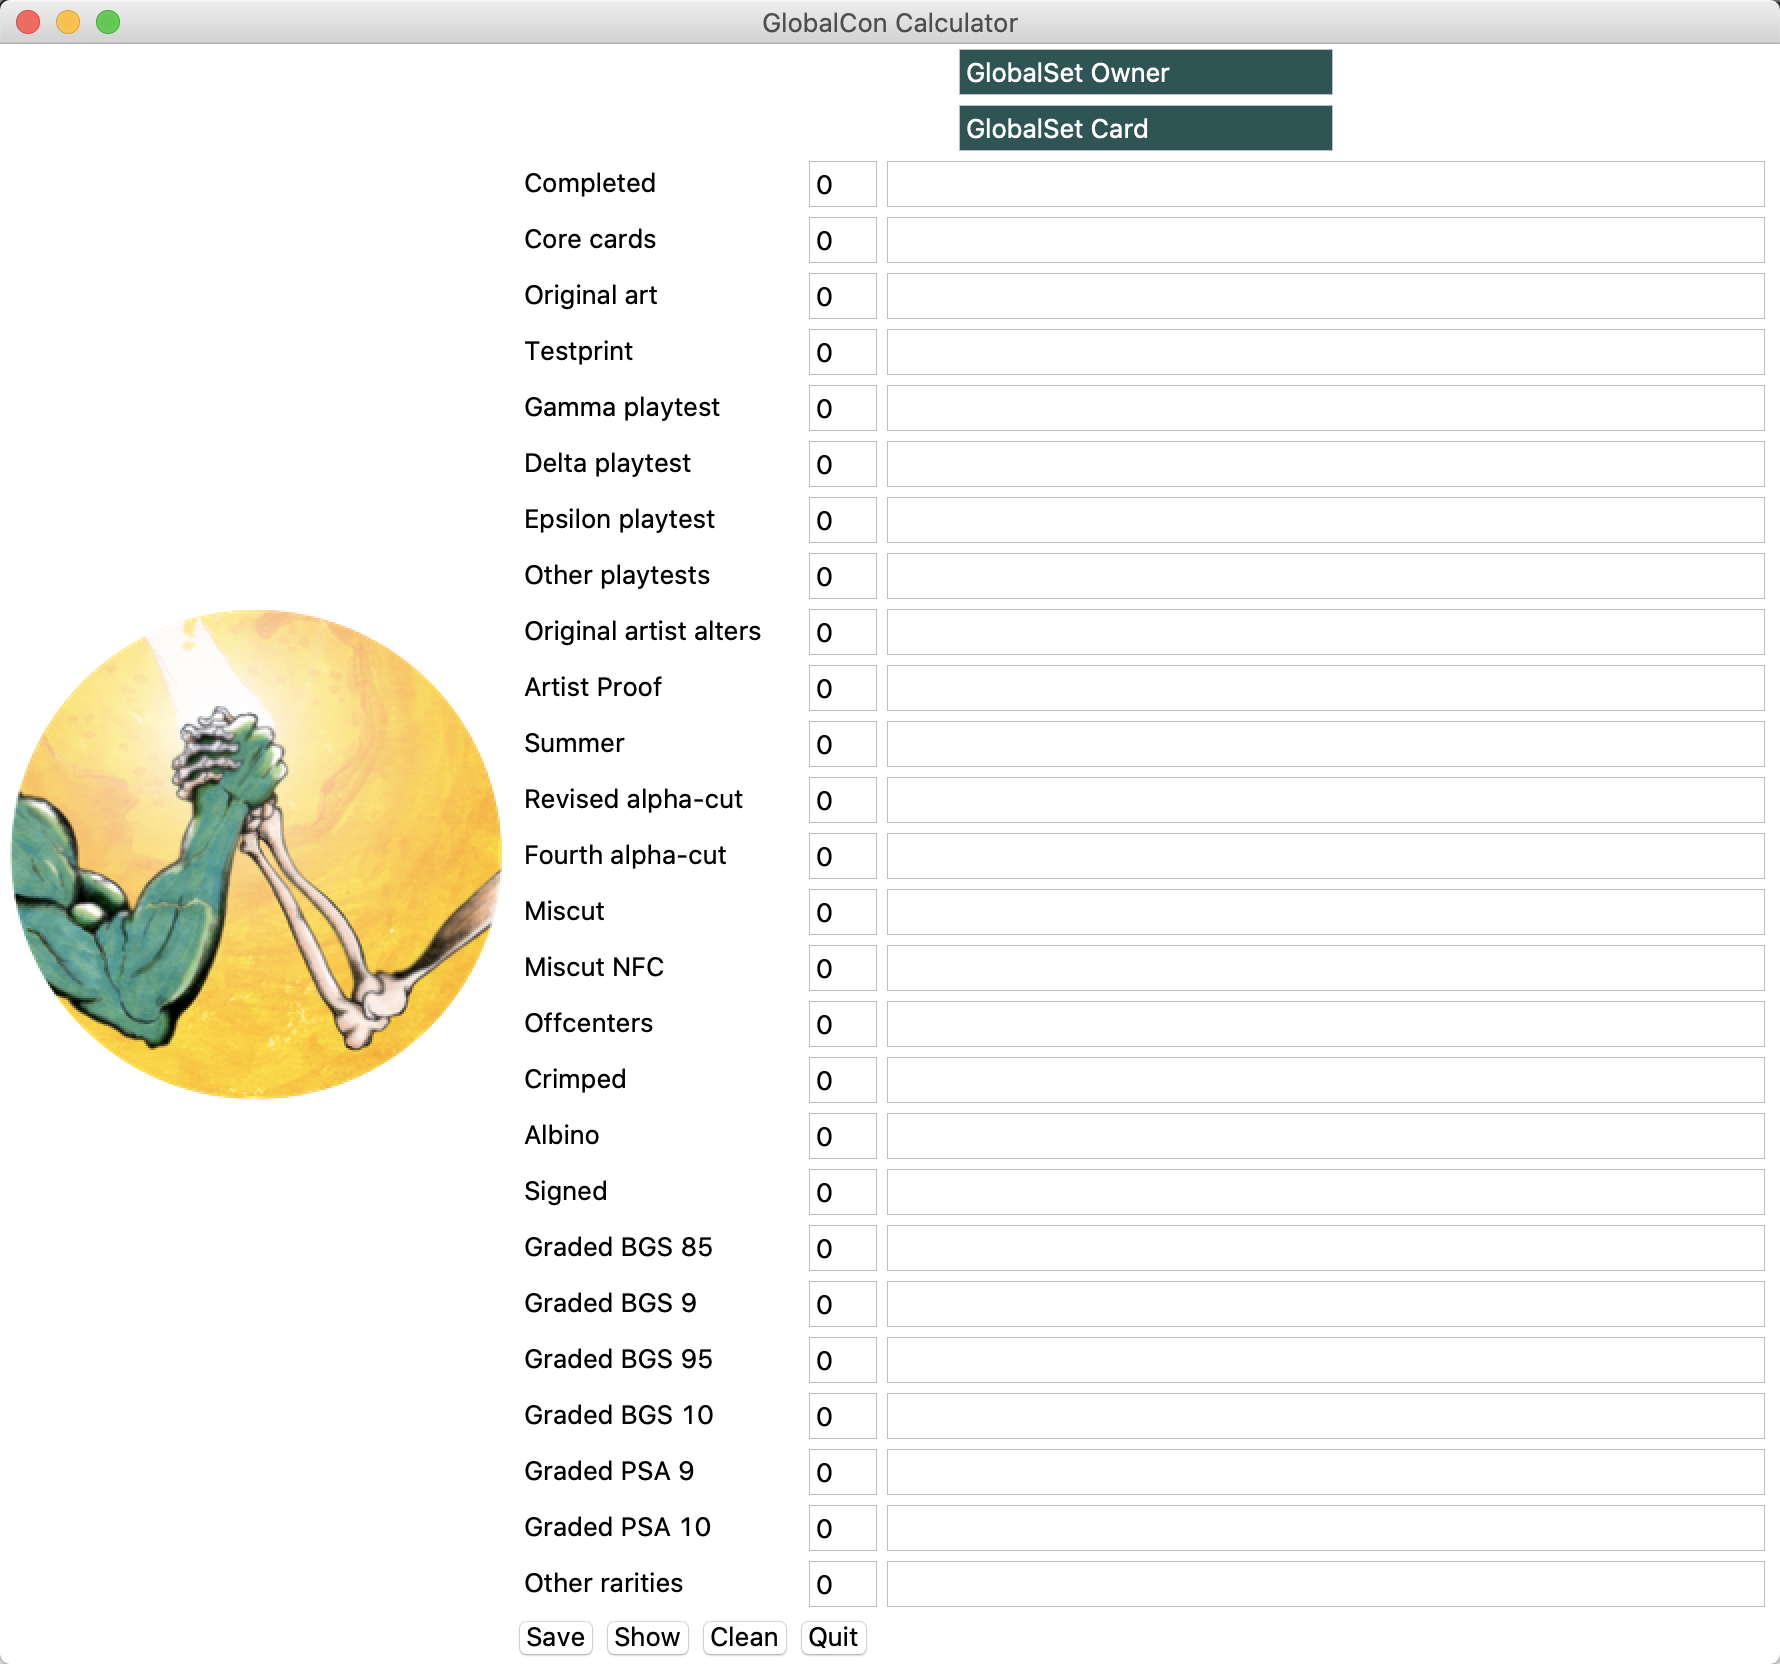
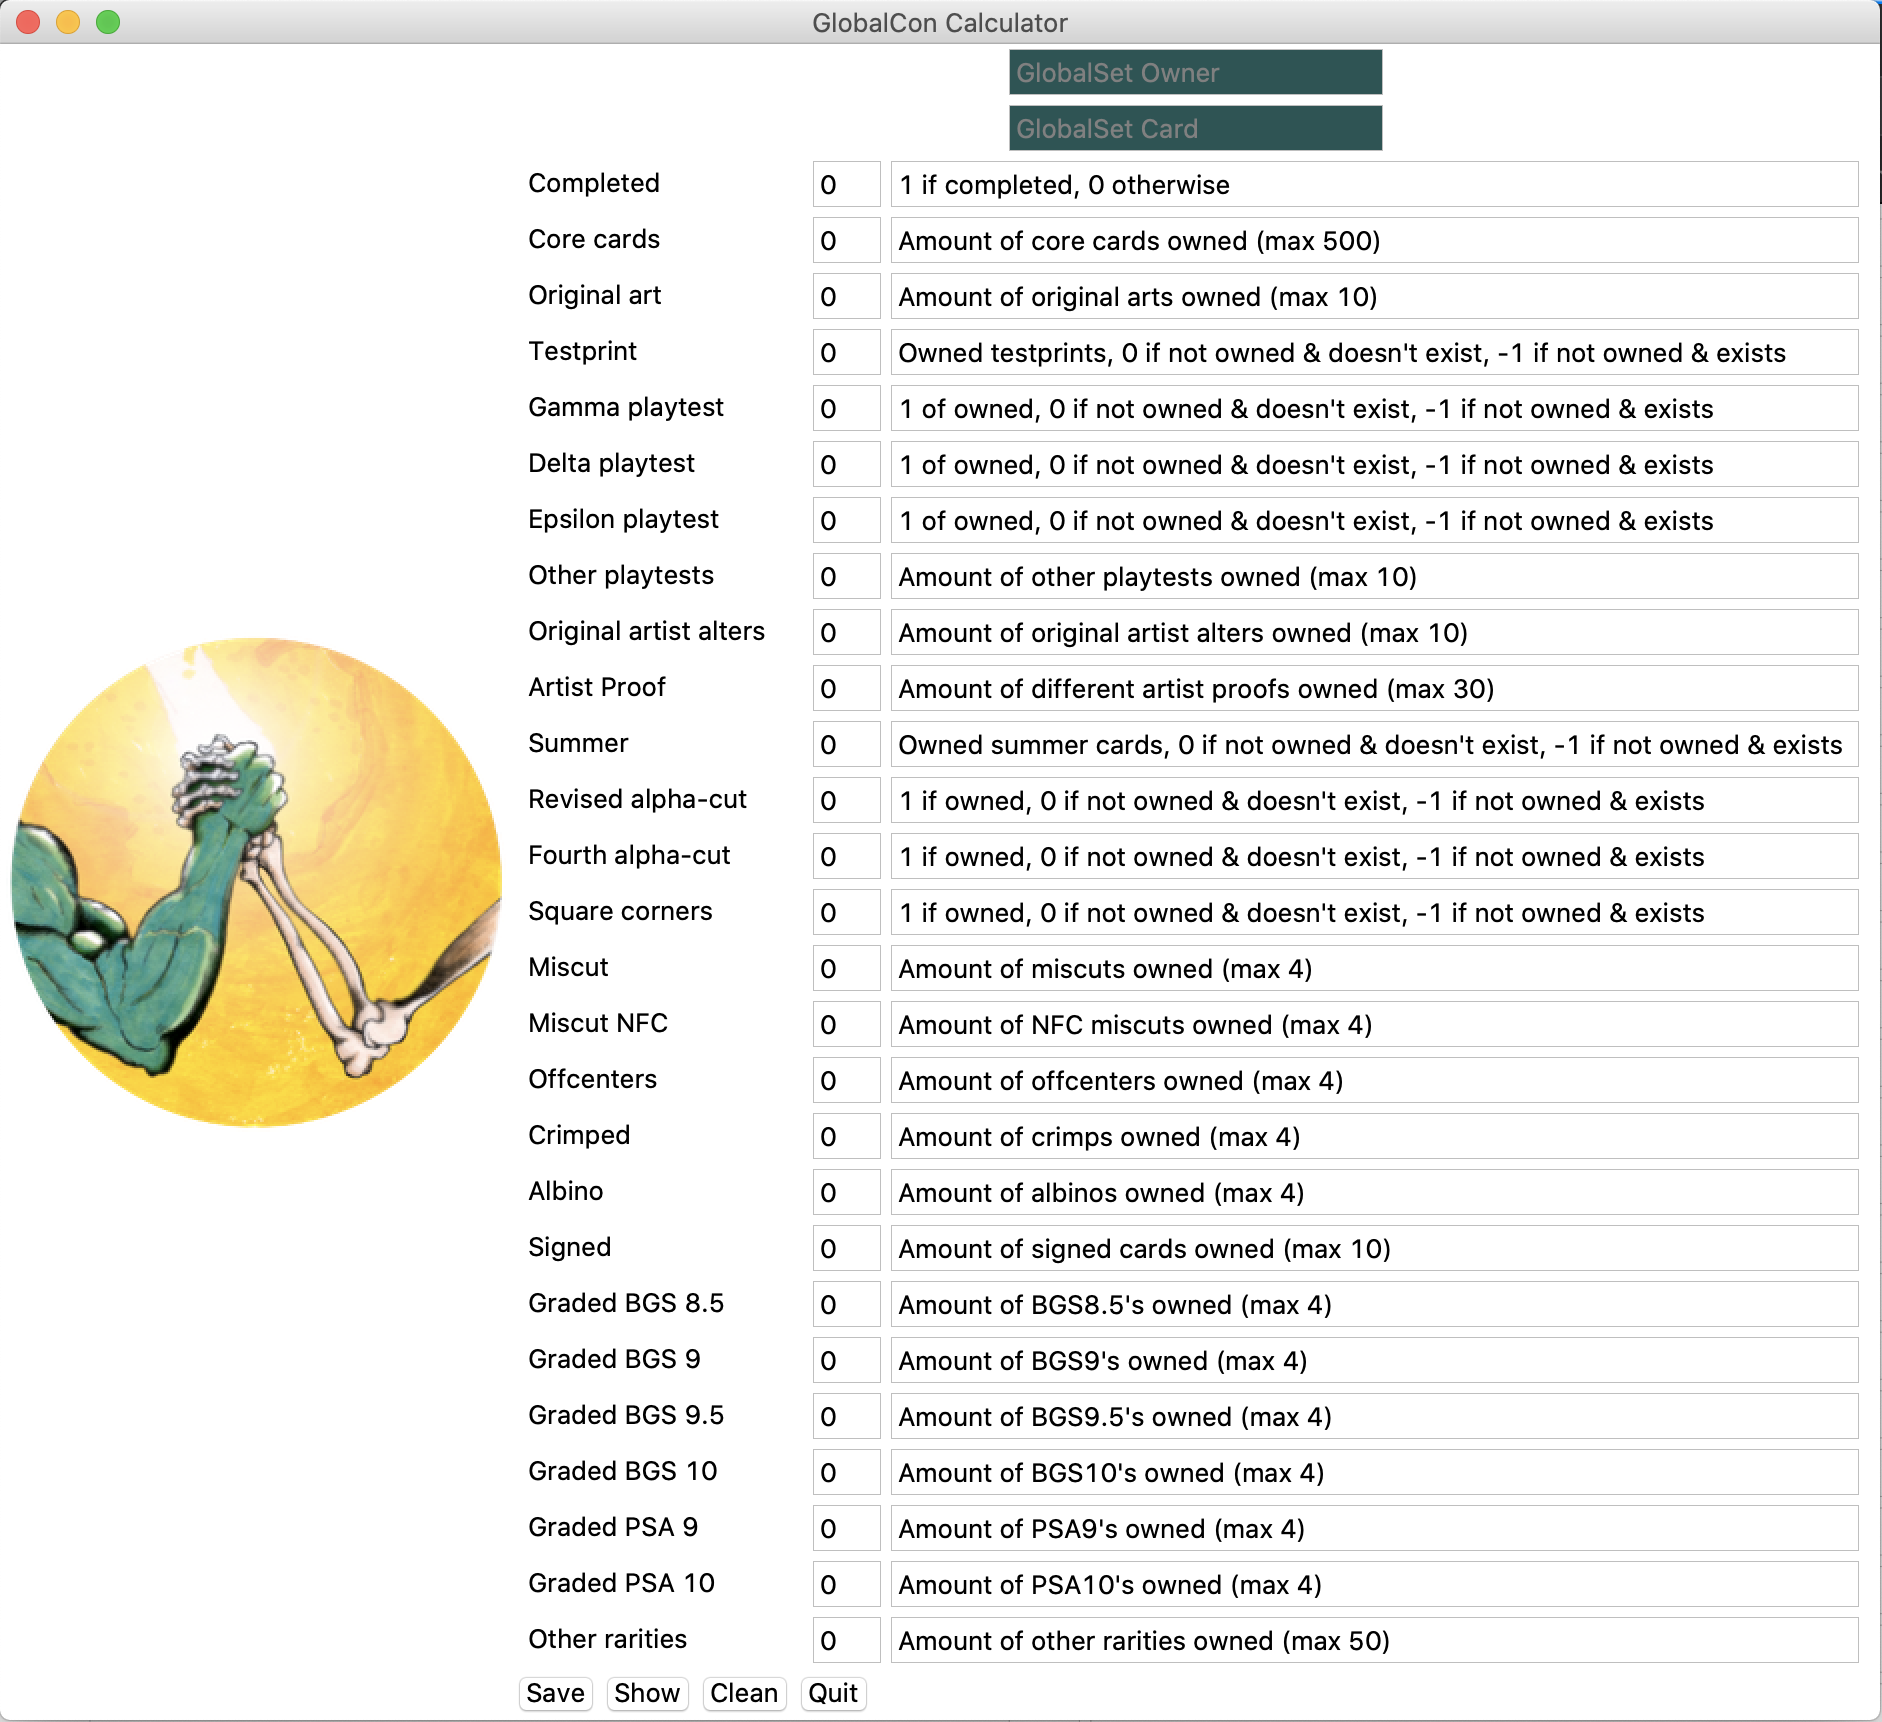
Center diploma text and update examples

diff --git a/create_diplomas.py b/create_diplomas.py
@@ -1,10 +1,9 @@
-import fpdf
 from fpdf import FPDF
 import glob
 import os
 import re
 
-CENTER_X = 146
+CENTER_X = 153
 CENTER_Y = 102.5
 
 DIPLOMAS_PATH = "DATA/DIPLOMAS"
@@ -13,7 +12,7 @@ DIPLOMAS_PATH = "DATA/DIPLOMAS"
 class PDF(FPDF):
     def __init__(self):
         super().__init__()
-        self.add_page(orientation='L')
+        self.add_page(orientation="L")
         self.set_draw_color(0, 80, 180)
         self.set_text_color(50, 50, 50)
         self.add_background()
@@ -28,89 +27,80 @@ class PDF(FPDF):
 
     def titles(self):
         self.set_xy(CENTER_X, CENTER_Y)
-        self.add_font('moria citadel', '', 'MoriaCitadel.TTF', uni=True)
-        self.set_font('moria citadel', '', size=46)
-        self.cell(w=-8.0, h=-150.0, align='C', txt="GlobalCon 2020", border=0)
+        self.add_font("moria citadel", "", "MoriaCitadel.TTF", uni=True)
+        self.set_font("moria citadel", "", size=46)
+        self.cell(w=-8.0, h=-150.0, align="C", txt="GlobalCon 2020", border=0)
 
     def organizers(self):
         self.set_xy(CENTER_X, CENTER_Y)
-        self.set_font('moria citadel', '', size=20)
+        self.set_font("moria citadel", "", size=20)
         self.set_text_color(50, 50, 50)
-        self.cell(w=155.0, h=87.0, align='C', txt="The Organizers", border=0)
+        self.cell(w=155.0, h=87.0, align="C", txt="The Organizers", border=0)
 
     def add_name(self, competitor_to_add):
         self.set_xy(CENTER_X, CENTER_Y)
-        self.set_font('moria citadel', '', size=26)
+        self.set_font("moria citadel", "", size=26)
         self.set_text_color(50, 50, 50)
-        self.cell(w=-8.0, h=-108.0, align='C', txt="Competitor name", border=0)
+        self.cell(w=-8.0, h=-108.0, align="C", txt="Competitor name", border=0)
 
         self.set_xy(CENTER_X, CENTER_Y)
-        self.set_font(family='Arial', style='B', size=32)
+        self.set_font(family="Arial", style="B", size=32)
         self.set_text_color(50, 50, 50)
-        self.cell(w=-8.0, h=-86.0, align='C', txt=competitor_to_add, border=0)
+        self.cell(w=-8.0, h=-86.0, align="C", txt=competitor_to_add, border=0)
 
     def add_card(self, card_name):
         self.set_xy(CENTER_X, CENTER_Y)
-        self.set_font('moria citadel', '', size=26)
+        self.set_font("moria citadel", "", size=26)
         self.set_text_color(50, 50, 50)
-        self.cell(w=-8.0, h=-51.0, align='C', txt="Competitor card", border=0)
+        self.cell(w=-8.0, h=-51.0, align="C", txt="Competitor card", border=0)
 
         self.set_xy(CENTER_X, CENTER_Y)
-        self.set_font(family='Arial', style='B', size=32)
+        self.set_font(family="Arial", style="B", size=32)
         self.set_text_color(50, 50, 50)
-        self.cell(w=-8.0, h=-29.0, align='C', txt=card_name, border=0)
+        self.cell(w=-8.0, h=-29.0, align="C", txt=card_name, border=0)
 
     def add_position(self, position, total):
         self.set_xy(CENTER_X, CENTER_Y)
-        self.set_font('moria citadel', '', size=26)
+        self.set_font("moria citadel", "", size=26)
         self.set_text_color(50, 50, 50)
-        self.cell(w=-8.0, h=6.0, align='C', txt="Position", border=0)
+        self.cell(w=-8.0, h=6.0, align="C", txt="Position", border=0)
 
         self.set_xy(CENTER_X, CENTER_Y)
-        self.set_font(family='Arial', style='B', size=32)
+        self.set_font(family="Arial", style="B", size=32)
         self.set_text_color(50, 50, 50)
-        self.cell(w=-8.0, h=28.0, align='C', txt=f'{position} / {total}', border=0)
+        self.cell(w=-8.0, h=28.0, align="C", txt=f"{position} / {total}", border=0)
 
     def add_points(self, points):
         self.set_xy(CENTER_X, CENTER_Y)
-        self.set_font('moria citadel', '', size=26)
+        self.set_font("moria citadel", "", size=26)
         self.set_text_color(50, 50, 50)
-        self.cell(w=-8.0, h=63.0, align='C', txt="Points", border=0)
+        self.cell(w=-8.0, h=63.0, align="C", txt="Points", border=0)
 
         self.set_xy(CENTER_X, CENTER_Y)
-        self.set_font(family='Arial', style='B', size=32)
+        self.set_font(family="Arial", style="B", size=32)
         self.set_text_color(50, 50, 50)
-        self.cell(w=-8.0, h=85.0, align='C', txt=f'{points}', border=0)
+        self.cell(w=-8.0, h=85.0, align="C", txt=f"{points}", border=0)
 
     def add_background(self):
         self.set_xy(0.0, 0.0)
         self.image(
-            "documentation/Background.png",
-            link='',
-            type='',
-            w=297,
-            h=210,
-            x=0,
-            y=0
+            "documentation/Background.png", link="", type="", w=297, h=210, x=0, y=0
         )
 
     def add_logo(self):
         self.set_xy(30.0, 115.0)
-        self.image(
-            "documentation/GlobalCon_border.png",
-            link='',
-            type='',
-            w=70,
-            h=70
-        )
+        self.image("documentation/GlobalCon_border.png", link="", type="", w=70, h=70)
 
 
-competitors = [f for f in os.listdir("DATA/RESULTS")
-               if os.path.isfile(os.path.join("DATA/RESULTS", f))]
-competitors.sort(key=lambda x: int(x.split('_')[0]), reverse=True)
+competitors = [
+    f
+    for f in os.listdir("DATA/RESULTS")
+    if os.path.isfile(os.path.join("DATA/RESULTS", f))
+]
+competitors.sort(key=lambda x: int(x.split("_")[0]), reverse=True)
 
 if os.path.exists(f"{DIPLOMAS_PATH}"):
-    files = glob.glob(f'{DIPLOMAS_PATH}/*.pdf')
+    files = glob.glob(f"{DIPLOMAS_PATH}/*.pdf")
     for f in files:
         os.remove(f)
 
@@ -121,10 +111,10 @@ total_competitors = len(competitors)
 previous_points = 10000
 previous_position = 1
 for ind, competitor in enumerate(competitors, 1):
-    competitor_data = competitor[:-4].split('_')
+    competitor_data = competitor[:-4].split("_")
     competitor_points = competitor_data[0]
-    competitor_name = ' '.join(re.findall('[A-Z][^A-Z]*', competitor_data[1]))
-    competitor_card = ' '.join(re.findall('[A-Z][^A-Z]*', competitor_data[2]))
+    competitor_name = " ".join(re.findall("[A-Z][^A-Z]*", competitor_data[1]))
+    competitor_card = " ".join(re.findall("[A-Z][^A-Z]*", competitor_data[2]))
 
     pdf = PDF()
     pdf.add_name(competitor_name)
@@ -140,8 +130,9 @@ for ind, competitor in enumerate(competitors, 1):
     pdf.add_logo()
 
     pdf.output(
-        f'{DIPLOMAS_PATH}/{final_position}_{competitor_data[1]}_{competitor_data[2]}.pdf',
-        'F')
+        f"{DIPLOMAS_PATH}/{final_position}_{competitor_data[1]}_{competitor_data[2]}.pdf",
+        "F",
+    )
 
     previous_points = competitor_points
     previous_position = final_position

diff --git a/src/__init__.py b/src/__init__.py
@@ -37,60 +37,33 @@ FONT = "Helvetica 14 bold"
 RESULTS_FOLDER = "DATA/RESULTS"
 
 DEFAULT_MESSAGES = {
-    "Completed":
-        "1 if completed, 0 otherwise",
-    "Core cards":
-        "Amount of core cards owned (max 500)",
-    "Original art":
-        "Amount of original arts owned (max 10)",
-    "Testprint":
-        "Owned testprints, 0 if not owned & doesn't exist, -1 if not owned & exists",
-    "Gamma playtest":
-        "1 of owned, 0 if not owned & doesn't exist, -1 if not owned & exists",
-    "Delta playtest":
-        "1 of owned, 0 if not owned & doesn't exist, -1 if not owned & exists",
-    "Epsilon playtest":
-        "1 of owned, 0 if not owned & doesn't exist, -1 if not owned & exists",
-    "Other playtests":
-        "Amount of other playtests owned (max 10)",
-    "Original artist alters":
-        "Amount of original artist alters owned (max 10)",
-    "Artist Proof":
-        "Amount of different artist proofs owned (max 30)",
-    "Summer":
-        "Owned summer cards, 0 if not owned & doesn't exist, -1 if not owned & exists",
-    "Revised alpha-cut":
-        "1 if owned, 0 if not owned & doesn't exist, -1 if not owned & exists",
-    "Fourth alpha-cut":
-        "1 if owned, 0 if not owned & doesn't exist, -1 if not owned & exists",
-    "Square corners":
-        "1 if owned, 0 if not owned & doesn't exist, -1 if not owned & exists",
-    "Miscut":
-        "Amount of miscuts owned (max 4)",
-    "Miscut NFC":
-        "Amount of NFC miscuts owned (max 4)",
-    "Offcenters":
-        "Amount of offcenters owned (max 4)",
-    "Crimped":
-        "Amount of crimps owned (max 4)",
-    "Albino":
-        "Amount of albinos owned (max 4)",
-    "Signed":
-        "Amount of signed cards owned (max 10)",
-    "Graded BGS 8.5":
-        "Amount of BGS8.5's owned (max 4)",
-    "Graded BGS 9":
-        "Amount of BGS9's owned (max 4)",
-    "Graded BGS 9.5":
-        "Amount of BGS9.5's owned (max 4)",
-    "Graded BGS 10":
-        "Amount of BGS10's owned (max 4)",
-    "Graded PSA 9":
-        "Amount of PSA9's owned (max 4)",
-    "Graded PSA 10":
-        "Amount of PSA10's owned (max 4)",
-    "Other rarities":
-        "Amount of other rarities owned (max 50)",
+    "Completed": "1 if completed, 0 otherwise",
+    "Core cards": "Amount of core cards owned (max 500)",
+    "Original art": "Amount of original arts owned (max 10)",
+    "Testprint": "Owned testprints, 0 if not owned & doesn't exist, -1 if not owned & exists",
+    "Gamma playtest": "1 of owned, 0 if not owned & doesn't exist, -1 if not owned & exists",
+    "Delta playtest": "1 of owned, 0 if not owned & doesn't exist, -1 if not owned & exists",
+    "Epsilon playtest": "1 of owned, 0 if not owned & doesn't exist, -1 if not owned & exists",
+    "Other playtests": "Amount of other playtests owned (max 10)",
+    "Original artist alters": "Amount of original artist alters owned (max 10)",
+    "Artist Proof": "Amount of different artist proofs owned (max 30)",
+    "Summer": "Owned summer cards, 0 if not owned & doesn't exist, -1 if not owned & exists",
+    "Revised alpha-cut": "1 if owned, 0 if not owned & doesn't exist, -1 if not owned & exists",
+    "Fourth alpha-cut": "1 if owned, 0 if not owned & doesn't exist, -1 if not owned & exists",
+    "Square corners": "1 if owned, 0 if not owned & doesn't exist, -1 if not owned & exists",
+    "Miscut": "Amount of miscuts owned (max 4)",
+    "Miscut NFC": "Amount of NFC miscuts owned (max 4)",
+    "Offcenters": "Amount of offcenters owned (max 4)",
+    "Crimped": "Amount of crimps owned (max 4)",
+    "Albino": "Amount of albinos owned (max 4)",
+    "Signed": "Amount of signed cards owned (max 10)",
+    "Graded BGS 8.5": "Amount of BGS8.5's owned (max 4)",
+    "Graded BGS 9": "Amount of BGS9's owned (max 4)",
+    "Graded BGS 9.5": "Amount of BGS9.5's owned (max 4)",
+    "Graded BGS 10": "Amount of BGS10's owned (max 4)",
+    "Graded PSA 9": "Amount of PSA9's owned (max 4)",
+    "Graded PSA 10": "Amount of PSA10's owned (max 4)",
+    "Other rarities": "Amount of other rarities owned (max 50)",
 }
 
 RANGES = {

diff --git a/src/calculator.py b/src/calculator.py
@@ -2,8 +2,15 @@ import os
 import tkinter as tk
 from PIL import ImageTk, Image
 
-from src import APP_NAME, WEIGHTS, RESULTS_FOLDER, FONT, LOGO_FILE, DEFAULT_MESSAGES, \
-    RANGES
+from src import (
+    APP_NAME,
+    WEIGHTS,
+    RESULTS_FOLDER,
+    FONT,
+    LOGO_FILE,
+    DEFAULT_MESSAGES,
+    RANGES,
+)
 from src.data import current_instance
 from src.utilities import fetch
 
@@ -77,10 +84,10 @@ class Calculator:
                 rows[index], textvariable=v, fg="black", bg="white", width=3
             )
 
-            v = tk.StringVar(self.root,
-                             value=current_instance.last_info.get(item,
-                                                                  DEFAULT_MESSAGES[item])
-                             )
+            v = tk.StringVar(
+                self.root,
+                value=current_instance.last_info.get(item, DEFAULT_MESSAGES[item]),
+            )
             info[index] = tk.Entry(
                 rows[index], textvariable=v, fg="black", bg="white", width=53
             )
@@ -177,16 +184,18 @@ class Calculator:
         if not os.path.exists(RESULTS_FOLDER):
             os.makedirs(RESULTS_FOLDER)
         with open(
-                f"{RESULTS_FOLDER}/"
-                f"{current_instance.total}_"
-                f'{gs_own.replace(" ", "")}_'
-                f'{gs_card.replace(" ", "")}.txt',
-                "w",
+            f"{RESULTS_FOLDER}/"
+            f"{current_instance.total}_"
+            f'{gs_own.replace(" ", "")}_'
+            f'{gs_card.replace(" ", "")}.txt',
+            "w",
         ) as f:
             for key, value in current_instance.last_values.items():
-                additional_info = current_instance.last_info[key] \
-                    if current_instance.last_info[key] != DEFAULT_MESSAGES[key] \
+                additional_info = (
+                    current_instance.last_info[key]
+                    if current_instance.last_info[key] != DEFAULT_MESSAGES[key]
                     else ""
+                )
                 f.write(
                     f"{key}: {min(max(int(value), RANGES[key][0]), RANGES[key][1])}"
                     f" / {additional_info}\n"
@@ -208,8 +217,8 @@ class Calculator:
 
     def handle_focus_in_owner(self, _):
         self.owner.delete(0, tk.END)
-        self.owner.config(fg='yellow')
+        self.owner.config(fg="yellow")
 
     def handle_focus_in_card(self, _):
         self.card.delete(0, tk.END)
-        self.card.config(fg='yellow')
+        self.card.config(fg="yellow")
